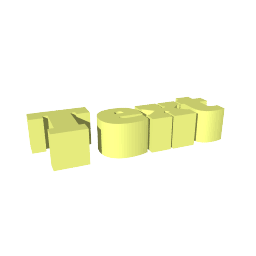
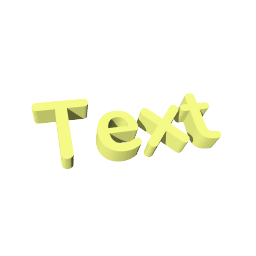
Save as asks for overwrite if exists
Save as dialog does clicking and double clicking as expected
New Text icon

Changed region(s): [[0.0938, 0.3438, 0.875, 0.6875]]

diff --git a/MatterControlLib/Library/Widgets/ListView/LibraryListView.cs b/MatterControlLib/Library/Widgets/ListView/LibraryListView.cs
@@ -47,10 +47,10 @@ namespace MatterHackers.MatterControl.CustomWidgets
 {
 	public class LibraryListView : ScrollableWidget
 	{
-		public enum DoubleClickActions
+		public enum DoubleClickBehaviors
 		{
 			PreviewItem,
-			AddToBed
+			AddToBed,
 		}
 
 		public event EventHandler ContentReloaded;
@@ -286,6 +286,7 @@ namespace MatterHackers.MatterControl.CustomWidgets
 				{
 					var listViewItem = new ListViewItem(childContainer, this.ActiveContainer, this);
 					listViewItem.DoubleClick += ListViewItem_DoubleClick;
+
 					items.Add(listViewItem);
 
 					listViewItem.ViewWidget = itemsContentView.AddItem(listViewItem);
@@ -304,7 +305,21 @@ namespace MatterHackers.MatterControl.CustomWidgets
 				foreach (var item in this.SortItems(filteredResults))
 				{
 					var listViewItem = new ListViewItem(item, this.ActiveContainer, this);
-					listViewItem.DoubleClick += ListViewItem_DoubleClick;
+
+					if (DoubleClickItemEvent != null)
+					{
+						listViewItem.DoubleClick += DoubleClickItemEvent;
+					}
+					else
+					{
+						listViewItem.DoubleClick += ListViewItem_DoubleClick;
+					}
+
+					if (ClickItemEvent != null)
+					{
+						listViewItem.Click += ClickItemEvent;
+					}
+
 					items.Add(listViewItem);
 
 					listViewItem.ViewWidget = itemsContentView.AddItem(listViewItem);
@@ -333,7 +348,10 @@ namespace MatterHackers.MatterControl.CustomWidgets
 			return Task.CompletedTask;
 		}
 
-		private void AddHeaderMarkdown(IconListView listView)
+		public EventHandler<MouseEventArgs> ClickItemEvent;
+		public EventHandler<MouseEventArgs> DoubleClickItemEvent;
+
+        private void AddHeaderMarkdown(IconListView listView)
 		{
 			if (sourceContainer != null
 				&& !string.IsNullOrEmpty(sourceContainer.HeaderMarkdown))
@@ -451,7 +469,7 @@ namespace MatterHackers.MatterControl.CustomWidgets
 			return destImage;
 		}
 
-		private async void ListViewItem_DoubleClick(object sender, MouseEventArgs e)
+		private void ListViewItem_DoubleClick(object sender, MouseEventArgs e)
 		{
 			UiThread.RunOnIdle(async () =>
 			{
@@ -502,56 +520,58 @@ namespace MatterHackers.MatterControl.CustomWidgets
 					// List items
 					if (itemModel != null)
 					{
-						if (this.DoubleClickAction == DoubleClickActions.PreviewItem)
+						switch (this.DoubleClickBehavior)
 						{
-							if (itemModel is ILibraryAsset asset && asset.ContentType == "mcx"
-								&& itemModel is ILibraryItem firstItem
-								&& this.ActiveContainer is ILibraryWritableContainer writableContainer)
-							{
-								var mainViewWidget = ApplicationController.Instance.MainView;
-
-								// check if it is already open
-								if (ApplicationController.Instance.SwitchToWorkspaceIfAlreadyOpen(asset.AssetPath))
-                                {
-									return;
-                                }
-
-								var workspace = new PartWorkspace(new BedConfig(ApplicationController.Instance.Library.PlatingHistory));
-
-								ApplicationController.Instance.Workspaces.Add(workspace);
-
-								var partTab = mainViewWidget.CreateDesignTab(workspace, true);
-								mainViewWidget.TabControl.ActiveTab = partTab;
-
-								// Load content after UI widgets to support progress notification during acquire/load
-								await workspace.SceneContext.LoadContent(
-									new EditContext()
-									{
-										ContentStore = writableContainer,
-										SourceItem = firstItem
-									});
-							}
-							else
-							{
-								void OpenNewTab()
+							case DoubleClickBehaviors.PreviewItem:
+								if (itemModel is ILibraryAsset asset && asset.ContentType == "mcx"
+									&& itemModel is ILibraryItem firstItem
+									&& this.ActiveContainer is ILibraryWritableContainer writableContainer)
 								{
-                                    _ = ApplicationController.Instance.OpenIntoNewTab(new[] { itemModel });
-								}
+									var mainViewWidget = ApplicationController.Instance.MainView;
 
-								OpenNewTab();
-							}
-						}
-						else
-						{
-							var activeContext = ApplicationController.Instance.DragDropData;
-							activeContext.SceneContext?.AddToPlate(new[] { itemModel });
+									// check if it is already open
+									if (ApplicationController.Instance.SwitchToWorkspaceIfAlreadyOpen(asset.AssetPath))
+									{
+										return;
+									}
+
+									var workspace = new PartWorkspace(new BedConfig(ApplicationController.Instance.Library.PlatingHistory));
+
+									ApplicationController.Instance.Workspaces.Add(workspace);
+
+									var partTab = mainViewWidget.CreateDesignTab(workspace, true);
+									mainViewWidget.TabControl.ActiveTab = partTab;
+
+									// Load content after UI widgets to support progress notification during acquire/load
+									await workspace.SceneContext.LoadContent(
+										new EditContext()
+										{
+											ContentStore = writableContainer,
+											SourceItem = firstItem
+										});
+								}
+								else
+								{
+									void OpenNewTab()
+									{
+										_ = ApplicationController.Instance.OpenIntoNewTab(new[] { itemModel });
+									}
+
+									OpenNewTab();
+								}
+								break;
+
+							case DoubleClickBehaviors.AddToBed:
+								var activeContext = ApplicationController.Instance.DragDropData;
+								activeContext.SceneContext?.AddToPlate(new[] { itemModel });
+								break;
 						}
 					}
 				}
 			});
 		}
 
-		public DoubleClickActions DoubleClickAction { get; set; } = DoubleClickActions.AddToBed;
+		public DoubleClickBehaviors DoubleClickBehavior { get; set; } = DoubleClickBehaviors.AddToBed;
 
 		public void SetActiveContainer(ILibraryContainer container)
 		{

diff --git a/MatterControlLib/PartPreviewWindow/LibraryBrowserPage.cs b/MatterControlLib/PartPreviewWindow/LibraryBrowserPage.cs
@@ -28,8 +28,10 @@ either expressed or implied, of the FreeBSD Project.
 */
 
 using System;
+using System.IO;
 using MatterHackers.Agg;
 using MatterHackers.Agg.UI;
+using MatterHackers.Localizations;
 using MatterHackers.MatterControl.CustomWidgets;
 using MatterHackers.MatterControl.Library;
 using MatterHackers.VectorMath;
@@ -44,8 +46,17 @@ namespace MatterHackers.MatterControl
 		protected LibraryListView librarySelectorWidget;
 		private FolderBreadCrumbWidget breadCrumbWidget = null;
 
+		public static bool AllowDragToBed { get; internal set; } = true;
+
 		public LibraryBrowserPage(Action<ILibraryWritableContainer, string> acceptCallback, string acceptButtonText)
 		{
+			AllowDragToBed = false;
+
+			Closed += (s, e) =>
+			{
+				AllowDragToBed = true;
+			};
+
 			this.WindowSize = new Vector2(480, 500);
 
 			contentRow.Padding = 0;
@@ -82,14 +93,53 @@ namespace MatterHackers.MatterControl
 			acceptButton.Cursor = Cursors.Hand;
 			acceptButton.Click += (s, e) =>
 			{
+				var closeAfterSave = true;
 				if (librarySelectorWidget.ActiveContainer is ILibraryWritableContainer writableContainer)
 				{
-					acceptCallback(
-						writableContainer,
-						itemNameWidget?.ActualTextEditWidget.Text ?? "none");
+					var outputName = Path.ChangeExtension(itemNameWidget?.ActualTextEditWidget.Text ?? "none", ".mcx");
+
+					if (writableContainer is FileSystemContainer fileSystemContainer)
+					{
+						if (File.Exists(Path.Combine(fileSystemContainer.FullPath, outputName)))
+                        {
+							closeAfterSave = false;
+							// ask about overwriting the exisitng file
+							StyledMessageBox.ShowMessageBox(
+							(overwriteFile) =>
+							{
+								if (overwriteFile)
+								{
+									acceptCallback(writableContainer, outputName);
+									this.DialogWindow.CloseOnIdle();
+								}
+								else
+                                {
+									// turn the accept button back on
+									acceptButton.Enabled = true;
+								}
+							},
+							"\"{0}\" already exists.\nDo you want to replace it?".Localize().FormatWith(outputName),
+							"Confirm Save As".Localize(),
+							StyledMessageBox.MessageType.YES_NO,
+							"Replace".Localize(),
+							"Cancel".Localize());
+						}
+						else
+                        {
+							// save and exit normaly
+							acceptCallback(writableContainer, outputName);
+						}
+					}
+					else
+					{
+						acceptCallback(writableContainer, outputName);
+					}
 				}
 
-				this.DialogWindow.CloseOnIdle();
+				if (closeAfterSave)
+				{
+					this.DialogWindow.CloseOnIdle();
+				}
 			};
 
 			this.AddPageAction(acceptButton);

diff --git a/MatterControlLib/PartPreviewWindow/SaveAsPage.cs b/MatterControlLib/PartPreviewWindow/SaveAsPage.cs
@@ -28,6 +28,7 @@ either expressed or implied, of the FreeBSD Project.
 */
 
 using System;
+using System.IO;
 using MatterHackers.Agg;
 using MatterHackers.Agg.Platform;
 using MatterHackers.Agg.UI;
@@ -65,8 +66,18 @@ namespace MatterHackers.MatterControl
 				Margin = new BorderDouble(5),
 				Name = "Design Name Edit Field"
 			};
-			itemNameWidget.ActualTextEditWidget.EnterPressed += (s, e) =>
+
+			this.librarySelectorWidget.ClickItemEvent += (s, e) =>
 			{
+				if (s is ListViewItem listViewItem
+					&& this.AcceptButton.Enabled)
+				{
+					itemNameWidget.ActualTextEditWidget.Text = Path.ChangeExtension(listViewItem.Model.Name, ".mcx");
+				}
+			};
+
+			void ClickAccept()
+            {
 				if (this.acceptButton.Enabled)
 				{
 					if (librarySelectorWidget.ActiveContainer is ILibraryWritableContainer)
@@ -76,7 +87,18 @@ namespace MatterHackers.MatterControl
 						this.AcceptButton.Enabled = false;
 					}
 				}
+			}
+
+			this.librarySelectorWidget.DoubleClickItemEvent += (s, e) =>
+			{
+				ClickAccept();
 			};
+
+			itemNameWidget.ActualTextEditWidget.EnterPressed += (s, e) =>
+			{
+				ClickAccept();
+			};
+
 			itemNameWidget.ActualTextEditWidget.TextChanged += (s, e) =>
 			{
 				acceptButton.Enabled = libraryNavContext.ActiveContainer is ILibraryWritableContainer

diff --git a/MatterControlLib/Library/Widgets/ListView/ListViewItemBase.cs b/MatterControlLib/Library/Widgets/ListView/ListViewItemBase.cs
@@ -248,8 +248,12 @@ namespace MatterHackers.MatterControl.CustomWidgets
 
 			if (IsDoubleClick(mouseEvent))
 			{
-				listViewItem.OnDoubleClick();
+				listViewItem.OnDoubleClick(mouseEvent);
 			}
+			else
+            {
+				listViewItem.OnClick(mouseEvent);
+            }
 
 			// On mouse down update the view3DWidget reference that will be used in MouseMove and MouseUp
 			view3DWidget = ApplicationController.Instance.DragDropData.View3DWidget;
@@ -297,7 +301,9 @@ namespace MatterHackers.MatterControl.CustomWidgets
 			var delta = mouseDownAt - mouseEvent.Position;
 
 			// If mouseDown on us and we've moved past are drag determination threshold, notify view3DWidget
-			if (mouseDownInBounds && delta.Length > 40
+			if (LibraryBrowserPage.AllowDragToBed
+				&& mouseDownInBounds 
+				&& delta.Length > 40
 				&& view3DWidget != null
 				&& !(listViewItem.Model is MissingFileItem))
 			{
@@ -458,5 +464,5 @@ namespace MatterHackers.MatterControl.CustomWidgets
 				}
 			}
 		}
-	}
+    }
 }

diff --git a/MatterControlLib/Library/Widgets/LibraryWidget.cs b/MatterControlLib/Library/Widgets/LibraryWidget.cs
@@ -86,7 +86,7 @@ namespace MatterHackers.MatterControl.PrintLibrary
 				ContainerFilter = (container) => this.ShowContainers,
 				BackgroundColor = theme.BackgroundColor,
 				Border = new BorderDouble(top: 1),
-				DoubleClickAction = LibraryListView.DoubleClickActions.PreviewItem
+				DoubleClickBehavior = LibraryListView.DoubleClickBehaviors.PreviewItem
 			};
 
 			navBar = new OverflowBar(theme)
@@ -728,7 +728,7 @@ namespace MatterHackers.MatterControl.PrintLibrary
 				Icon = StaticData.Instance.LoadIcon("cube.png", 16, 16).SetToColor(theme.TextColor),
 				Action = (selectedLibraryItems, listView) =>
 				{
-					listView.SelectedItems.FirstOrDefault()?.OnDoubleClick();
+					listView.SelectedItems.FirstOrDefault()?.OnDoubleClick(null);
 				},
 				IsEnabled = (selectedListItems, listView) =>
 				{

diff --git a/MatterControlLib/Library/Widgets/ListView/ListViewItem.cs b/MatterControlLib/Library/Widgets/ListView/ListViewItem.cs
@@ -36,6 +36,8 @@ namespace MatterHackers.MatterControl.CustomWidgets
 	public class ListViewItem
 	{
 		public event EventHandler<MouseEventArgs> DoubleClick;
+		
+		public event EventHandler<MouseEventArgs> Click;
 
 		public ILibraryItem Model { get; }
 
@@ -52,9 +54,14 @@ namespace MatterHackers.MatterControl.CustomWidgets
 
 		public ILibraryContainer Container { get; }
 
-		internal void OnDoubleClick()
+		public void OnDoubleClick(MouseEventArgs mouseEventArgs)
 		{
-			DoubleClick?.Invoke(this, null);
+			DoubleClick?.Invoke(this, mouseEventArgs);
+		}
+
+		public void OnClick(MouseEventArgs mouseEventArgs)
+		{
+			Click?.Invoke(this, mouseEventArgs);
 		}
 	}
 }

diff --git a/MatterControlLib/DesignTools/Primitives/TextObject3D.cs b/MatterControlLib/DesignTools/Primitives/TextObject3D.cs
@@ -85,7 +85,7 @@ namespace MatterHackers.MatterControl.DesignTools
 
 		[MaxDecimalPlaces(2)]
 		[Slider(1, 400, VectorMath.Easing.EaseType.Quadratic, useSnappingGrid: true)]
-		public DoubleOrExpression Height { get; set; } = 5;
+		public DoubleOrExpression Height { get; set; } = 3;
 
 		[Sortable]
 		[JsonConverter(typeof(StringEnumConverter))]

diff --git a/MatterControlLib/PartPreviewWindow/MainViewWidget.cs b/MatterControlLib/PartPreviewWindow/MainViewWidget.cs
@@ -431,7 +431,7 @@ namespace MatterHackers.MatterControl.PartPreviewWindow
 		}
 
 		// you can use this code to test the ShellOpenFile code
-#if true
+#if false
 		public override void OnKeyPress(KeyPressEventArgs keyPressEvent)
         {
 			var files = new string[]
